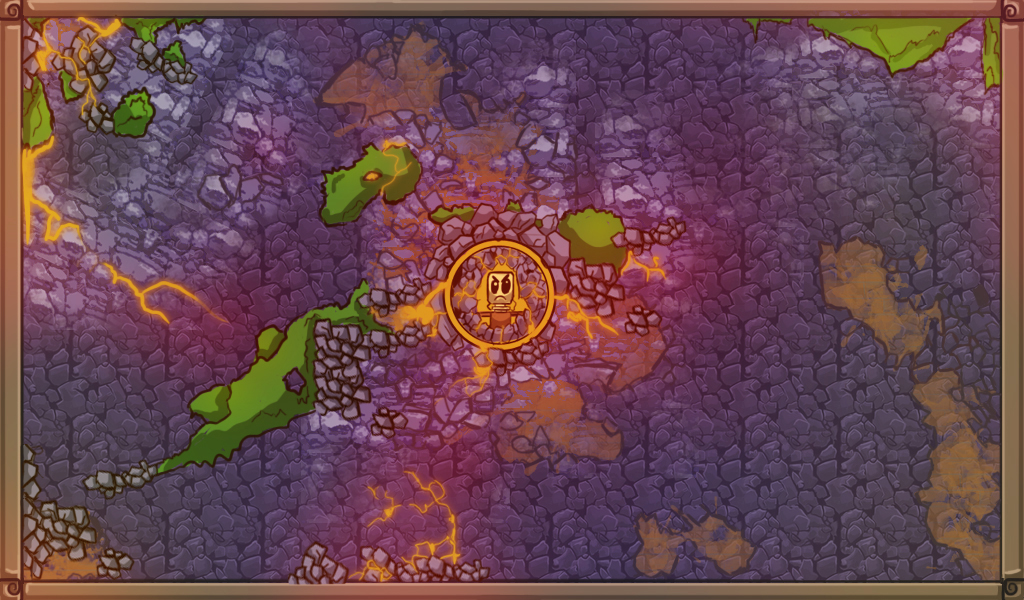
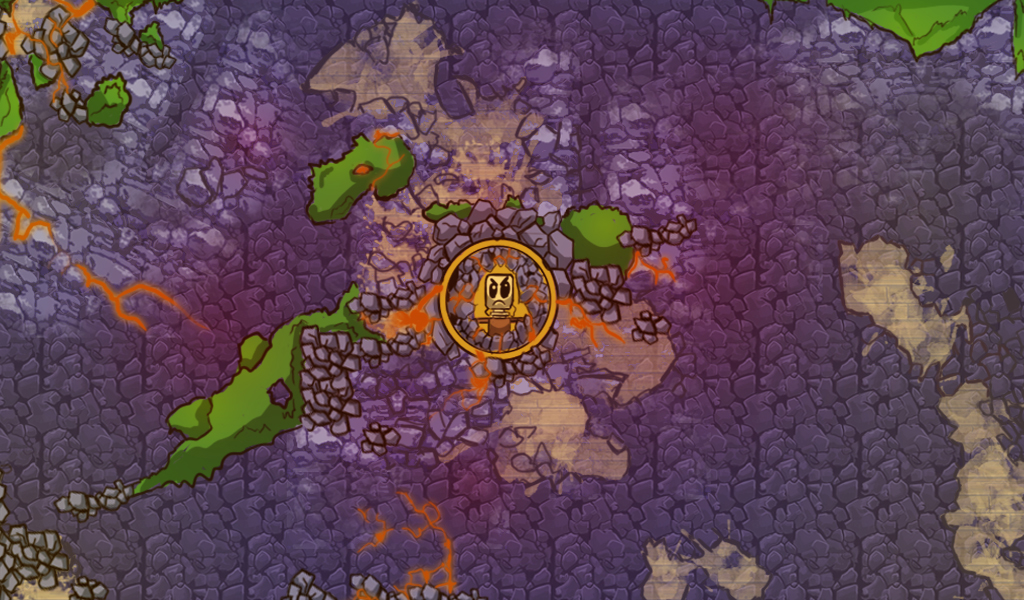
integration des nouveaux graphismes

diff --git a/js/Player.js b/js/Player.js
@@ -34,6 +34,9 @@ function Player(parentObj)
 			animByFrame : 7
 		});
 
+		// On prépare aussi une instance du joueur mort pour le futur game over
+		this.parentObj.sprites['img/player_dead'] = IM.getInstance('img/player_dead');
+
 		// Affiche le nombre de coeurs
 		this.display();
 	};
@@ -101,9 +104,11 @@ function Player(parentObj)
 		// ctx.stroke();
 		// ctx.closePath();
 		IM.drawImage(ctx, this.sprite, this.x, this.y);
-		ctx.strokeStyle = 'lime';
-		ctx.lineWidth = 2;
-		ctx.strokeRect(this.x, this.y, this.w, this.h);
+		
+		// DEBUG : Show player rectangle
+		// ctx.strokeStyle = 'lime';
+		// ctx.lineWidth = 2;
+		// ctx.strokeRect(this.x, this.y, this.w, this.h);
 
 		/*ctx.shadowColor = '';
 		ctx.shadowBlur = 0;*/
@@ -137,6 +142,9 @@ function Player(parentObj)
 	 **/
 	this.damage = function() {
 		if(--this.life <= 0) {
+			// Remplacement du sprite player par le sprite player_killed
+			this.sprite = this.parentObj.sprites['img/player_dead'];
+			// Let's kill it, he deserved to be !
 			this.kill();
 		}
 		this.display();
@@ -154,8 +162,6 @@ function Player(parentObj)
 	 * Fait mourir le joueur
 	 **/
 	this.kill = function() {
-		// On tue l'instance du sprite pour ne pas surcharger le garbage collector...
-		IM.killInstance(this.sprite);
 		this.parentObj.gameover();
 	};
 

diff --git a/js/Game.js b/js/Game.js
@@ -61,6 +61,11 @@ function Game()
 		// On stocke une instance unique de la cible dans le tableau qui référence toutes les instances de sprites du jeu
 		this.sprites['img/target'] = IM.getInstance('img/target');
 		this.cible.sprite = this.sprites['img/target'];
+		this.cible.sprite.animation = new IIG.Animation({
+			sWidth : 48,
+			sHeight : 48,
+			animByFrame : 3
+		});
 
 		// ====== SHADOW ======
 		// Ombre d'obscurité très dark sidious stress panic mode
@@ -182,7 +187,7 @@ function Game()
 	 **/
 	this.renderTarget = function() {
 
-		ctx.drawImage(this.cible.sprite.data, this.cible.x, this.cible.y);
+		IM.drawImage(ctx, this.cible.sprite, this.cible.x, this.cible.y);
 
 	};
 

diff --git a/js/Enemy.js b/js/Enemy.js
@@ -116,10 +116,12 @@ function Enemy(parentObj)
 				ctx.globalAlpha = e.opacity;
 			}
 			IM.drawImage(ctx, e.sprite, e.x, e.y);
-			ctx.strokeStyle = 'pink';
-			ctx.lineWidth = 2;
-			ctx.strokeRect(e.x, e.y, e.w, e.h);
 			ctx.globalAlpha = 1;
+
+			// DEBUG : cadre rectangulaire de l'ennemi
+			// ctx.strokeStyle = 'pink';
+			// ctx.lineWidth = 2;
+			// ctx.strokeRect(e.x, e.y, e.w, e.h);
 		}
 
 	};

diff --git a/index.html b/index.html
@@ -169,6 +169,7 @@
         // Ajout des sprites du jeu qui doivent être chargés
         IM.add('img/shadow.png');
         IM.add('img/player.png');
+        IM.add('img/player_dead.png');
         IM.add('img/target.png');
         IM.add('img/ennemi_vert.png');
         IM.add('img/ennemi_marron.png');
